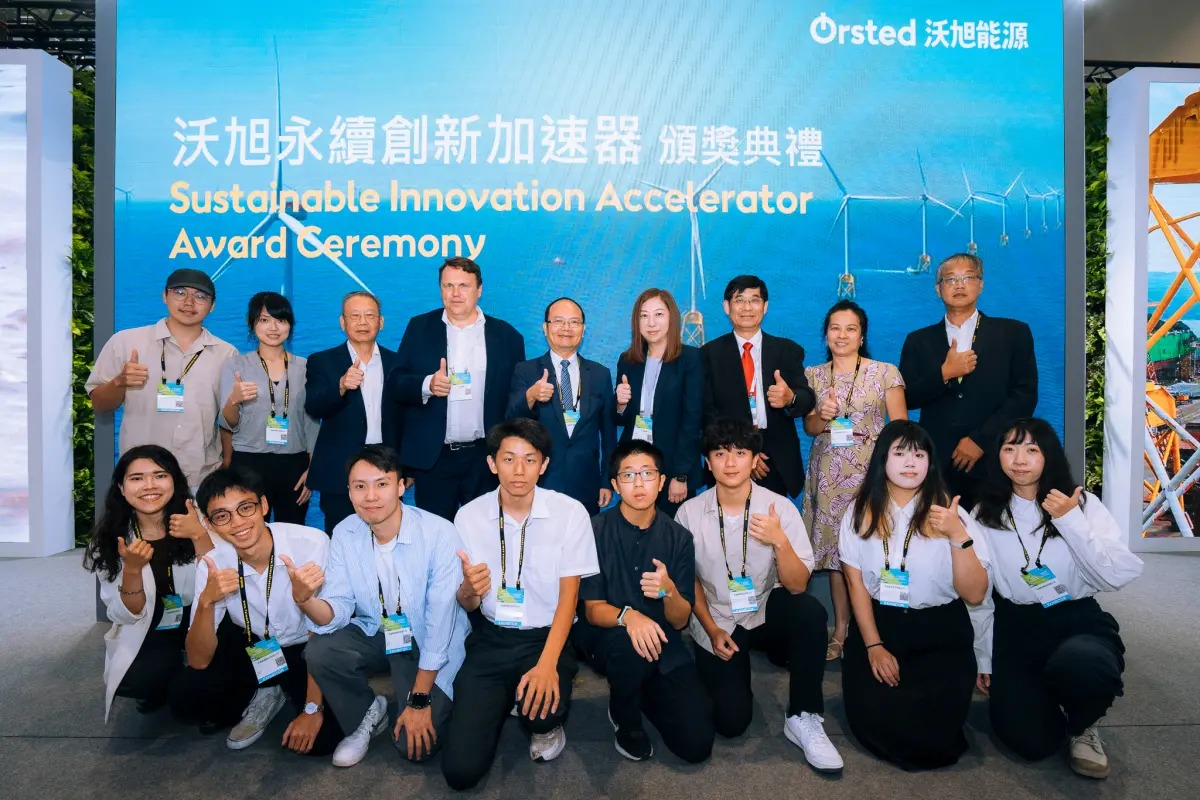
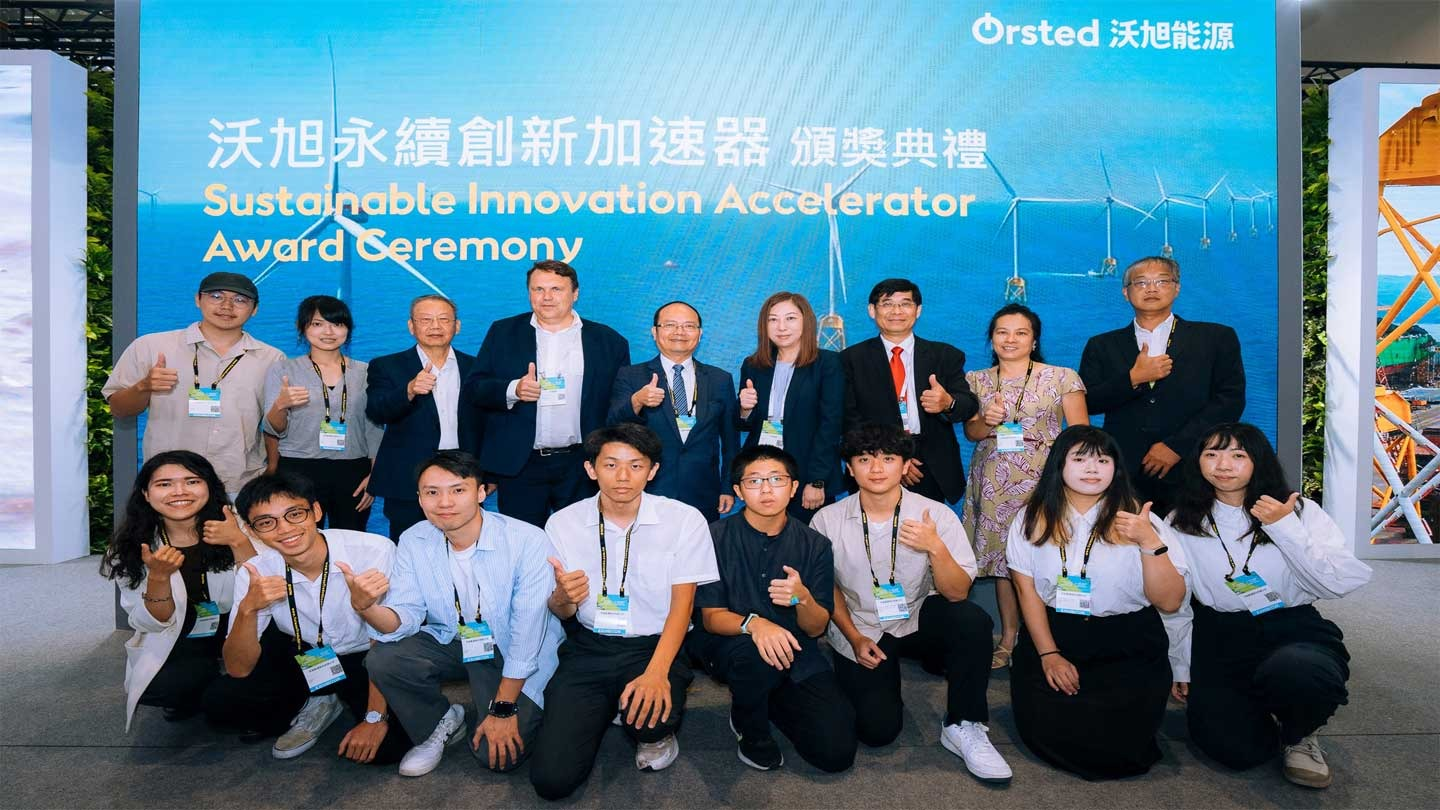
docs(news): source Orsted award page from official press release
Upgrades the ceremony photo to Orsted's 1440px original, adds the
NT$300k prize and team composition, links the official announcement,
and loosens the ceremony date to October 2024 (Orsted says Oct 2,
NOWnews says Oct 4).

Changed region(s): [[0.9558, 0.5312, 1.0, 0.5625], [0.7092, 0.5312, 0.74, 0.5625], [0.4625, 0.4688, 0.4933, 0.5]]

diff --git a/contents/news/articles/2024-orsted-accelerator-award.md b/contents/news/articles/2024-orsted-accelerator-award.md
@@ -1,4 +1,4 @@
-We are proud to announce that **HydrogenE3**, a student team led by **Associate Professor I-Yun Lisa Hsieh**, won the **Excellence Team Award (學生組卓越獎)** at the inaugural **Ørsted Sustainable Innovation Accelerator (沃旭永續創新加速器)**. The winners were unveiled on 4 October 2024 at International Energy Week in Taipei, with HydrogenE3 prevailing among nearly **70 proposals** submitted to the competition's first edition.
+We are proud to announce that **HydrogenE3**, a student team led by **Associate Professor I-Yun Lisa Hsieh**, won the **Excellence Team Award (學生組卓越獎)** at the inaugural **Ørsted Sustainable Innovation Accelerator (沃旭永續創新加速器)**. The winners were unveiled in October 2024 at Energy Taiwan (台灣國際智慧能源週), with HydrogenE3 prevailing among nearly **70 proposals** submitted to the competition's first edition and taking home the student-division prize of **NT$300,000**.
 
 ### The Winning Proposal
 
@@ -8,6 +8,8 @@ The team's entry, **"HydrogenE3: Innovative Wind-to-Green-Hydrogen Cost Analysis
 - **Generative AI** to make the analysis accessible through intelligent, conversational decision support;
 - **An interactive visualization platform** that lets stakeholders explore scenarios and assumptions in real time.
 
+The team brought together doctoral, master's, and undergraduate students, and the jury commended the proposal's innovative concept.
+
 ### A Rigorous Nine-Month Journey
 
 Co-organized by **Ørsted (沃旭能源)** and the **Metal Industries Research & Development Centre (MIRDC, 金屬工業研究發展中心)**, the accelerator evolved from Ørsted's long-running green-energy scholarship into a team-based innovation program open to both industry and student divisions. Entries went through nine months of screening, mentoring by industry experts, and a final pitch round. Ørsted Taiwan Chairman Christy Wang (汪欣潔) praised the enthusiastic response to the first-ever accelerator, noting that it showcased the boundless potential of Taiwan's talent in advancing offshore-wind sustainability, and pledged corporate and public-sector support to help winning teams bring their proposals into practice.
@@ -15,11 +17,11 @@ Co-organized by **Ørsted (沃旭能源)** and the **Metal Industries Research &
 We would especially like to recognize **Jason (Chon Man) Tam**, who served as a core member for project management and AI development in building the intelligent decision-making platform.
 
 ![Award ceremony of the 2024 Ørsted Sustainable Innovation Accelerator](/assets/news/2024-orsted-accelerator-award/1.jpg)
-*The Sustainable Innovation Accelerator award ceremony at International Energy Week. Photos courtesy of Ørsted (圖／沃旭能源提供).*
+*The Sustainable Innovation Accelerator award ceremony at Energy Taiwan 2024. Photos courtesy of Ørsted (圖／沃旭能源提供).*
 
 ### From Competition to Collaboration
 
 The award proved to be a beginning rather than an end. Building on the accelerator, the E3 Center and MIRDC launched a joint technical project on [wind power forecasting for green hydrogen](/projects/2026-wind-forecasting-green-hydrogen/) — work that was later [featured in Focus News](/news/2026-focus-news/) and showcased at the [NTU × MIRDC joint seminar](/news/2026-ntu-mirdc-joint-seminar/) on wind, hydrogen, and e-fuels.
 
 ---
-**Read more:** media coverage on [NOWnews](https://www.nownews.com/news/6543572) (in Chinese)
+**Read more:** [Ørsted's official announcement](https://orsted.tw/zh/news/2024/10/siaaward) and media coverage on [NOWnews](https://www.nownews.com/news/6543572) (both in Chinese)
